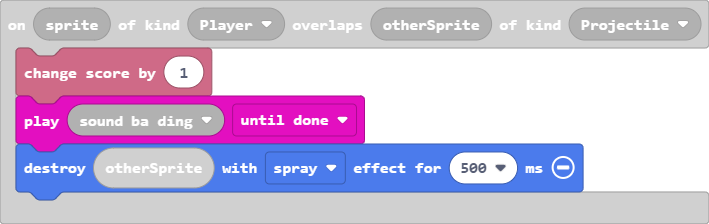
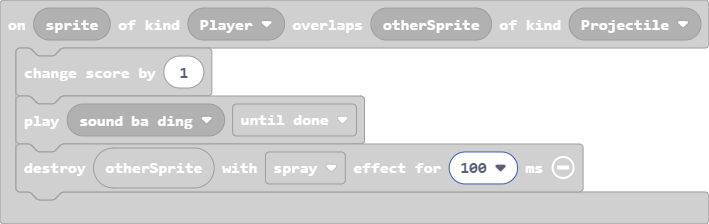
from 500 ms to 100 ms

Changed region(s): [[0.0, 0.1875, 0.8378, 0.9062]]

diff --git a/main.ts b/main.ts
@@ -22,7 +22,7 @@ controller.A.onEvent(ControllerButtonEvent.Pressed, function () {
 sprites.onOverlap(SpriteKind.Player, SpriteKind.Projectile, function (sprite, otherSprite) {
     info.changeScoreBy(1)
     music.play(music.melodyPlayable(music.baDing), music.PlaybackMode.UntilDone)
-    sprites.destroy(otherSprite, effects.spray, 500)
+    sprites.destroy(otherSprite, effects.spray, 100)
 })
 info.onLifeZero(function () {
     music.stopAllSounds()
